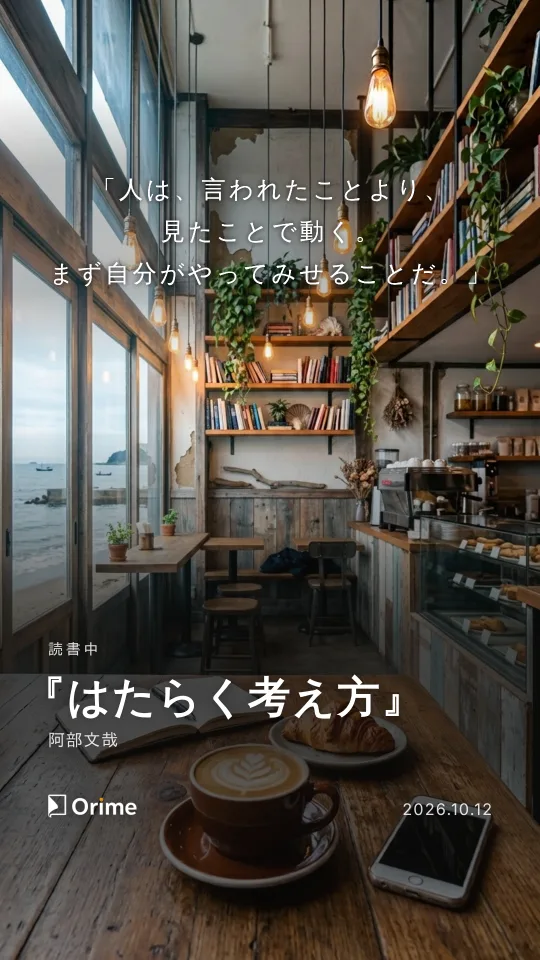
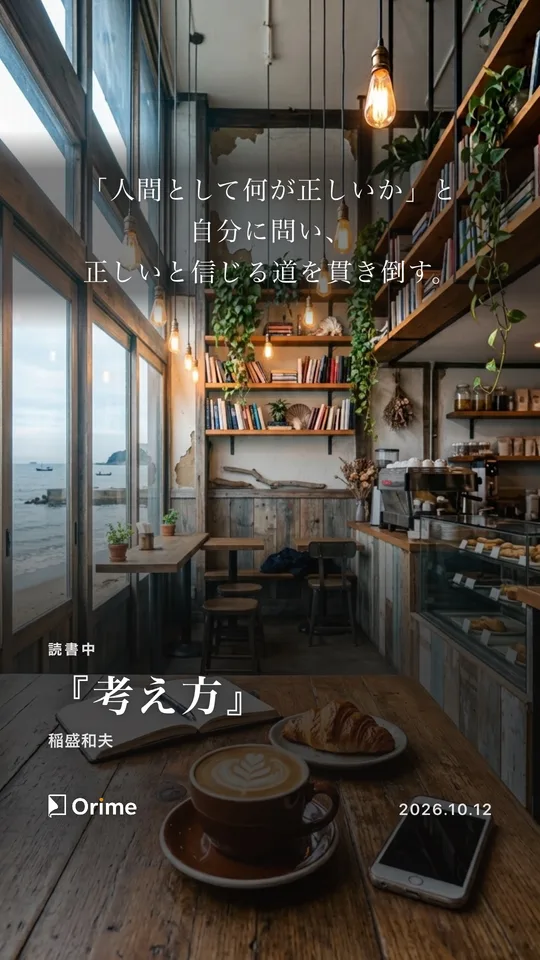
feat: LP の「気に入った一文を画像にして投稿」をオーナーが iPhone で作った本物の共有画像に差し替え
lp:shots はふだんこの画像を上書きしない（share を名前で指定したときだけ作り直す）。

Claude-Session: https://claude.ai/code/session_01CJtCb5D8mXkG5XEeRMX4M7

diff --git a/src/pages/Landing.jsx b/src/pages/Landing.jsx
@@ -171,7 +171,7 @@ const PILLARS = [
     id: 'share', share: true, artAlt: '心に残った一文を写真に重ねて共有する様子のイラスト',
     title: '気に入った一文を画像にして投稿',
     body: '写真に一文と書名をのせて、SNS に投稿できます。',
-    alt: '共有の画像の見本（縦長のストーリー）。海辺のカフェの写真の上に、細い明朝の一文「人は、言われたことより、見たことで動く。まず自分がやってみせることだ。」と、読書中の本の書名・著者、Orime のロゴと日付が重なっている',
+    alt: '写真で共有で作った縦長の画像。海辺のカフェの写真の上に、細い明朝の一文「「人間として何が正しいか」と自分に問い、正しいと信じる道を貫き倒す。」と、読書中の本『考え方』稲盛和夫、Orime のロゴと日付 2026.10.12 が重なっている',
   },
   {
     id: 'fields', shot: 'fields', artAlt: 'これまでに読んだ本を分野ごとに見渡す様子のイラスト',
